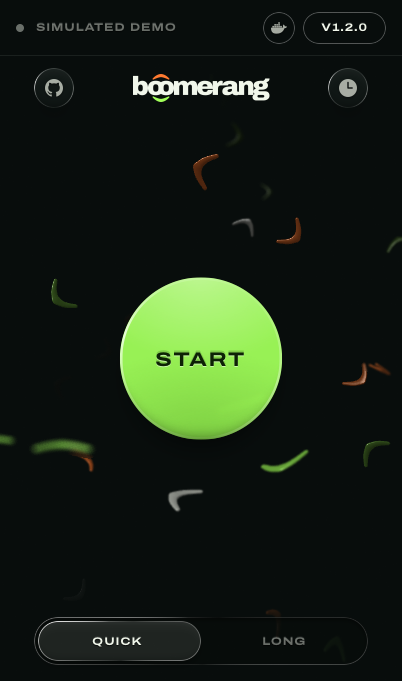
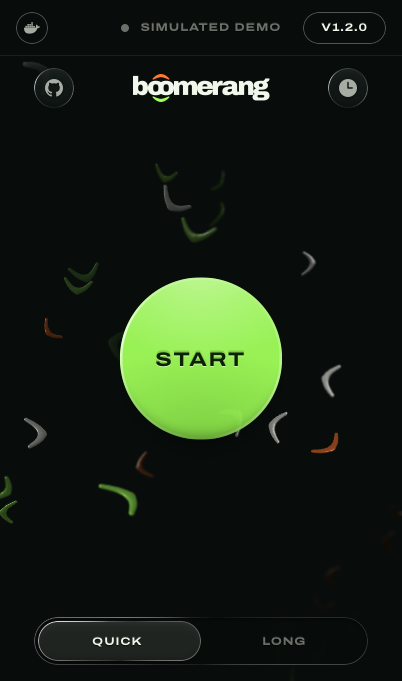
feat: centre the demo note between Self-host and the release, and pulse it during a run
The bar is laid out like the app's top bar: Self-host on the left, the
note in the middle, the release on the right, each side the same width.
While a test runs, a ring pulses out of the note's dot. On a phone,
before there is a release, the right key is a tag icon matching
Self-host's Docker one.

diff --git a/site/routes/+page.svelte b/site/routes/+page.svelte
@@ -82,33 +82,49 @@
 </svelte:head>
 
 <div class="flex h-dvh flex-col">
-  <!-- The bar is the app's own chrome: the note in a key's lettering, muted until a test runs, and the links as compact secondary keys. -->
-  <header class="flex h-14 flex-none items-center justify-between gap-4 border-b border-ink/8 px-4 sm:px-6">
-    <p class="m-0 flex min-w-0 items-center gap-3" data-testid="demo-note" data-running={running}>
-      <span
-        class="size-2 flex-none rounded-full transition-[background-color,box-shadow] duration-500 {running
-          ? 'bg-lime shadow-[0_0_10px_rgba(161,255,89,0.8)]'
-          : 'bg-ink-3 shadow-none'}"
-        aria-hidden="true"
-      ></span>
+  <!-- The bar is the app's own chrome, laid out like its top bar: Self-host on the left, the note in the
+       middle in a key's lettering, muted until a test runs, and the latest release on the right. -->
+  <header class="grid h-14 flex-none grid-cols-[minmax(0,1fr)_auto_minmax(0,1fr)] items-center gap-2 border-b border-ink/8 px-4 sm:gap-4 sm:px-6">
+    <!-- On a phone, Self-host is the Docker icon alone in a round key, so the note keeps its room. -->
+    <a class="{KEY} justify-self-start max-sm:w-8 max-sm:justify-center max-sm:px-0" href={GUIDE} aria-label="Self-host with Docker">
+      <svg class="size-4 flex-none drop-shadow-[0_1px_1px_rgba(0,0,0,0.7)]" viewBox="0 0 24 24" fill="currentColor" aria-hidden="true"
+        ><path d="M13.98 11.08h2.12a.19.19 0 0 0 .19-.19V9.01a.19.19 0 0 0-.19-.19h-2.12a.18.18 0 0 0-.18.18v1.9c0 .1.08.18.18.18m-2.95-5.43h2.12a.19.19 0 0 0 .18-.19V3.57a.19.19 0 0 0-.18-.18h-2.12a.18.18 0 0 0-.19.18v1.9c0 .1.09.18.19.18m0 2.71h2.12a.19.19 0 0 0 .18-.18V6.29a.19.19 0 0 0-.18-.18h-2.12a.18.18 0 0 0-.19.18v1.89c0 .1.09.18.19.18m-2.93 0h2.12a.19.19 0 0 0 .18-.18V6.29a.18.18 0 0 0-.18-.18H8.1a.18.18 0 0 0-.18.18v1.89c0 .1.08.18.18.18m-2.96 0h2.11a.19.19 0 0 0 .19-.18V6.29a.18.18 0 0 0-.19-.18H5.14a.19.19 0 0 0-.19.18v1.89c0 .1.08.18.19.18m5.89 2.72h2.12a.19.19 0 0 0 .18-.19V9.01a.19.19 0 0 0-.18-.19h-2.12a.18.18 0 0 0-.19.18v1.9c0 .1.09.18.19.18m-2.93 0h2.12a.18.18 0 0 0 .18-.19V9.01a.18.18 0 0 0-.18-.19H8.1a.18.18 0 0 0-.18.19v1.89c0 .1.08.19.18.19m-2.96 0h2.11a.18.18 0 0 0 .19-.19V9.01a.18.18 0 0 0-.18-.19H5.14a.19.19 0 0 0-.19.19v1.89c0 .1.08.19.19.19m-2.92 0h2.12a.18.18 0 0 0 .18-.19V9.01a.18.18 0 0 0-.18-.19H2.22a.18.18 0 0 0-.19.19v1.89c0 .1.08.19.19.19m21.54-1.19c-.06-.05-.67-.51-1.95-.51-.34 0-.68.03-1.01.09a3.77 3.77 0 0 0-1.72-2.57l-.34-.2-.23.33a4.6 4.6 0 0 0-.6 1.43c-.24.93-.1 1.8.36 2.55-.56.31-1.45.38-1.63.39H.75a.75.75 0 0 0-.75.75 11.38 11.38 0 0 0 .7 4.06 6.03 6.03 0 0 0 2.4 3.12c1.18.73 3.1 1.14 5.28 1.14.98 0 1.96-.09 2.93-.27a12.1 12.1 0 0 0 3.82-1.39 10.5 10.5 0 0 0 2.6-2.13c1.25-1.42 2-3 2.55-4.4h.22c1.37 0 2.21-.55 2.68-1.01.31-.3.55-.65.71-1.05l.1-.29Z" /></svg
+      >
+      <span class="hidden sm:inline {TRIM} {KEY_LABEL}">Self-host</span>
+    </a>
+    <p class="m-0 flex items-center gap-3" data-testid="demo-note" data-running={running}>
+      <!-- While a test runs, the dot lights and a ring pulses out of it. -->
+      <span class="relative size-2 flex-none" aria-hidden="true">
+        {#if running}
+          <span class="absolute inset-0 rounded-full bg-lime opacity-75 motion-safe:animate-ping"></span>
+        {/if}
+        <span
+          class="absolute inset-0 rounded-full transition-[background-color,box-shadow] duration-500 {running
+            ? 'bg-lime shadow-[0_0_10px_rgba(161,255,89,0.8)]'
+            : 'bg-ink-3 shadow-none'}"
+        ></span>
+      </span>
       <span class="whitespace-nowrap transition-colors duration-500 {running ? 'text-ink' : 'text-ink-3'} {TRIM} {KEY_LABEL}">Simulated demo</span>
     </p>
-    <nav class="flex flex-none items-center gap-2" aria-label="Boomerang">
-      <!-- On a phone, Self-host is the Docker icon alone in a round key, so both keys fit beside the note. -->
-      <a class="{KEY} max-sm:w-8 max-sm:justify-center max-sm:px-0" href={GUIDE} aria-label="Self-host with Docker">
-        <svg class="size-4 flex-none drop-shadow-[0_1px_1px_rgba(0,0,0,0.7)]" viewBox="0 0 24 24" fill="currentColor" aria-hidden="true"
-          ><path d="M13.98 11.08h2.12a.19.19 0 0 0 .19-.19V9.01a.19.19 0 0 0-.19-.19h-2.12a.18.18 0 0 0-.18.18v1.9c0 .1.08.18.18.18m-2.95-5.43h2.12a.19.19 0 0 0 .18-.19V3.57a.19.19 0 0 0-.18-.18h-2.12a.18.18 0 0 0-.19.18v1.9c0 .1.09.18.19.18m0 2.71h2.12a.19.19 0 0 0 .18-.18V6.29a.19.19 0 0 0-.18-.18h-2.12a.18.18 0 0 0-.19.18v1.89c0 .1.09.18.19.18m-2.93 0h2.12a.19.19 0 0 0 .18-.18V6.29a.18.18 0 0 0-.18-.18H8.1a.18.18 0 0 0-.18.18v1.89c0 .1.08.18.18.18m-2.96 0h2.11a.19.19 0 0 0 .19-.18V6.29a.18.18 0 0 0-.19-.18H5.14a.19.19 0 0 0-.19.18v1.89c0 .1.08.18.19.18m5.89 2.72h2.12a.19.19 0 0 0 .18-.19V9.01a.19.19 0 0 0-.18-.19h-2.12a.18.18 0 0 0-.19.18v1.9c0 .1.09.18.19.18m-2.93 0h2.12a.18.18 0 0 0 .18-.19V9.01a.18.18 0 0 0-.18-.19H8.1a.18.18 0 0 0-.18.19v1.89c0 .1.08.19.18.19m-2.96 0h2.11a.18.18 0 0 0 .19-.19V9.01a.18.18 0 0 0-.18-.19H5.14a.19.19 0 0 0-.19.19v1.89c0 .1.08.19.19.19m-2.92 0h2.12a.18.18 0 0 0 .18-.19V9.01a.18.18 0 0 0-.18-.19H2.22a.18.18 0 0 0-.19.19v1.89c0 .1.08.19.19.19m21.54-1.19c-.06-.05-.67-.51-1.95-.51-.34 0-.68.03-1.01.09a3.77 3.77 0 0 0-1.72-2.57l-.34-.2-.23.33a4.6 4.6 0 0 0-.6 1.43c-.24.93-.1 1.8.36 2.55-.56.31-1.45.38-1.63.39H.75a.75.75 0 0 0-.75.75 11.38 11.38 0 0 0 .7 4.06 6.03 6.03 0 0 0 2.4 3.12c1.18.73 3.1 1.14 5.28 1.14.98 0 1.96-.09 2.93-.27a12.1 12.1 0 0 0 3.82-1.39 10.5 10.5 0 0 0 2.6-2.13c1.25-1.42 2-3 2.55-4.4h.22c1.37 0 2.21-.55 2.68-1.01.31-.3.55-.65.71-1.05l.1-.29Z" /></svg
+    <!-- Until there is a release, a phone shows a tag icon in a round key here, matching Self-host's. -->
+    <a
+      class="{KEY} justify-self-end {release ? '' : 'max-sm:w-8 max-sm:justify-center max-sm:px-0'}"
+      href={release?.url ?? RELEASES}
+      aria-label={release ? undefined : 'Releases'}
+      data-testid="release"
+      data-release={release ? 'shown' : 'hidden'}
+    >
+      {#if release}
+        <span class="text-ink {TRIM} {KEY_LABEL}" data-testid="release-tag">{release.tag}</span>
+      {:else}
+        <svg class="size-4 flex-none drop-shadow-[0_1px_1px_rgba(0,0,0,0.7)] sm:hidden" viewBox="0 0 16 16" fill="currentColor" aria-hidden="true"
+          ><path
+            d="M1 7.775V2.75C1 1.784 1.784 1 2.75 1h5.025c.464 0 .91.184 1.238.513l6.25 6.25a1.75 1.75 0 0 1 0 2.474l-5.026 5.026a1.75 1.75 0 0 1-2.474 0l-6.25-6.25A1.752 1.752 0 0 1 1 7.775Zm1.5 0c0 .066.026.13.073.177l6.25 6.25a.25.25 0 0 0 .354 0l5.025-5.025a.25.25 0 0 0 0-.354l-6.25-6.25a.25.25 0 0 0-.177-.073H2.75a.25.25 0 0 0-.25.25ZM6 5a1 1 0 1 1 0 2 1 1 0 0 1 0-2Z"
+          /></svg
         >
-        <span class="hidden sm:inline {TRIM} {KEY_LABEL}">Self-host</span>
-      </a>
-      <a class={KEY} href={release?.url ?? RELEASES} data-testid="release" data-release={release ? 'shown' : 'hidden'}>
-        {#if release}
-          <span class="text-ink {TRIM} {KEY_LABEL}" data-testid="release-tag">{release.tag}</span>
-        {:else}
-          <span class="{TRIM} {KEY_LABEL}">Releases</span>
-        {/if}
-      </a>
-    </nav>
+        <span class="hidden sm:inline {TRIM} {KEY_LABEL}">Releases</span>
+      {/if}
+    </a>
   </header>
   <iframe class="block min-h-0 w-full flex-auto border-0 bg-ground" title="Boomerang demo" src="/demo/" bind:this={frame}></iframe>
 </div>

diff --git a/tests/site.spec.ts b/tests/site.spec.ts
@@ -83,7 +83,7 @@ test('with no release from GitHub, the version key links to the releases page in
   await page.goto('/');
   await answered;
   const key = page.getByTestId('release');
-  await expect(key).toHaveText('Releases');
+  await expect(key).toHaveAccessibleName('Releases');
   await expect(key).toHaveAttribute('href', 'https://github.com/fmaclen/boomerang/releases');
   await expect(page.getByTestId('release-tag')).toHaveCount(0);
   await expect(page.getByRole('link', { name: /Self-host/ })).toBeVisible();
@@ -104,7 +104,7 @@ for (const [width, viewport] of Object.entries(WIDTHS)) {
 }
 
 for (const answer of [{}, { status: 404 }]) {
-  test(`on a phone, the note and the keys keep clear of each other ${answer.status ? 'before there is a release' : 'with a version in the key'}`, async ({ page }) => {
+  test(`on a phone, the note keeps clear of the keys either side of it ${answer.status ? 'before there is a release' : 'with a version in the key'}`, async ({ page }) => {
     await offline(page, answer);
     const answered = page.waitForResponse(/releases\/latest/);
     await page.setViewportSize(WIDTHS.phone);
@@ -112,10 +112,12 @@ for (const answer of [{}, { status: 404 }]) {
     await answered;
     await expect(page.getByRole('link', { name: 'Self-host with Docker' })).toBeVisible();
     await expect(page.getByTestId(answer.status ? 'release' : 'release-tag')).toBeVisible();
-    const note = await page.getByTestId('demo-note').locator('span').nth(1).boundingBox();
-    const keys = await page.locator('header nav').boundingBox();
-    expect(note!.x + note!.width + 12).toBeLessThanOrEqual(keys!.x);
-    expect(keys!.x + keys!.width).toBeLessThanOrEqual(WIDTHS.phone.width);
+    const left = await page.getByRole('link', { name: 'Self-host with Docker' }).boundingBox();
+    const note = await page.getByTestId('demo-note').boundingBox();
+    const right = await page.getByTestId('release').boundingBox();
+    expect(left!.x + left!.width + 12).toBeLessThanOrEqual(note!.x);
+    expect(note!.x + note!.width + 12).toBeLessThanOrEqual(right!.x);
+    expect(right!.x + right!.width).toBeLessThanOrEqual(WIDTHS.phone.width);
   });
 }
 
@@ -130,3 +132,18 @@ test('the demo note stays muted until a test runs, and quiets again after it', a
   await demo.getByTestId('new-run').click();
   await expect(note).toHaveAttribute('data-running', 'false');
 });
+
+for (const answer of [{}, { status: 404 }]) {
+  test(`the demo note sits in the middle of the bar, between Self-host and the release ${answer.status ? 'before there is a release' : 'with a version'}`, async ({ page }) => {
+    await offline(page, answer);
+    for (const viewport of Object.values(WIDTHS)) {
+      await page.setViewportSize(viewport);
+      const answered = page.waitForResponse(/releases\/latest/);
+      await page.goto('/');
+      await answered;
+      await expect(page.getByTestId('release')).toBeVisible();
+      const note = await page.getByTestId('demo-note').boundingBox();
+      expect(note!.x + note!.width / 2).toBeCloseTo(viewport.width / 2, 0);
+    }
+  });
+}
